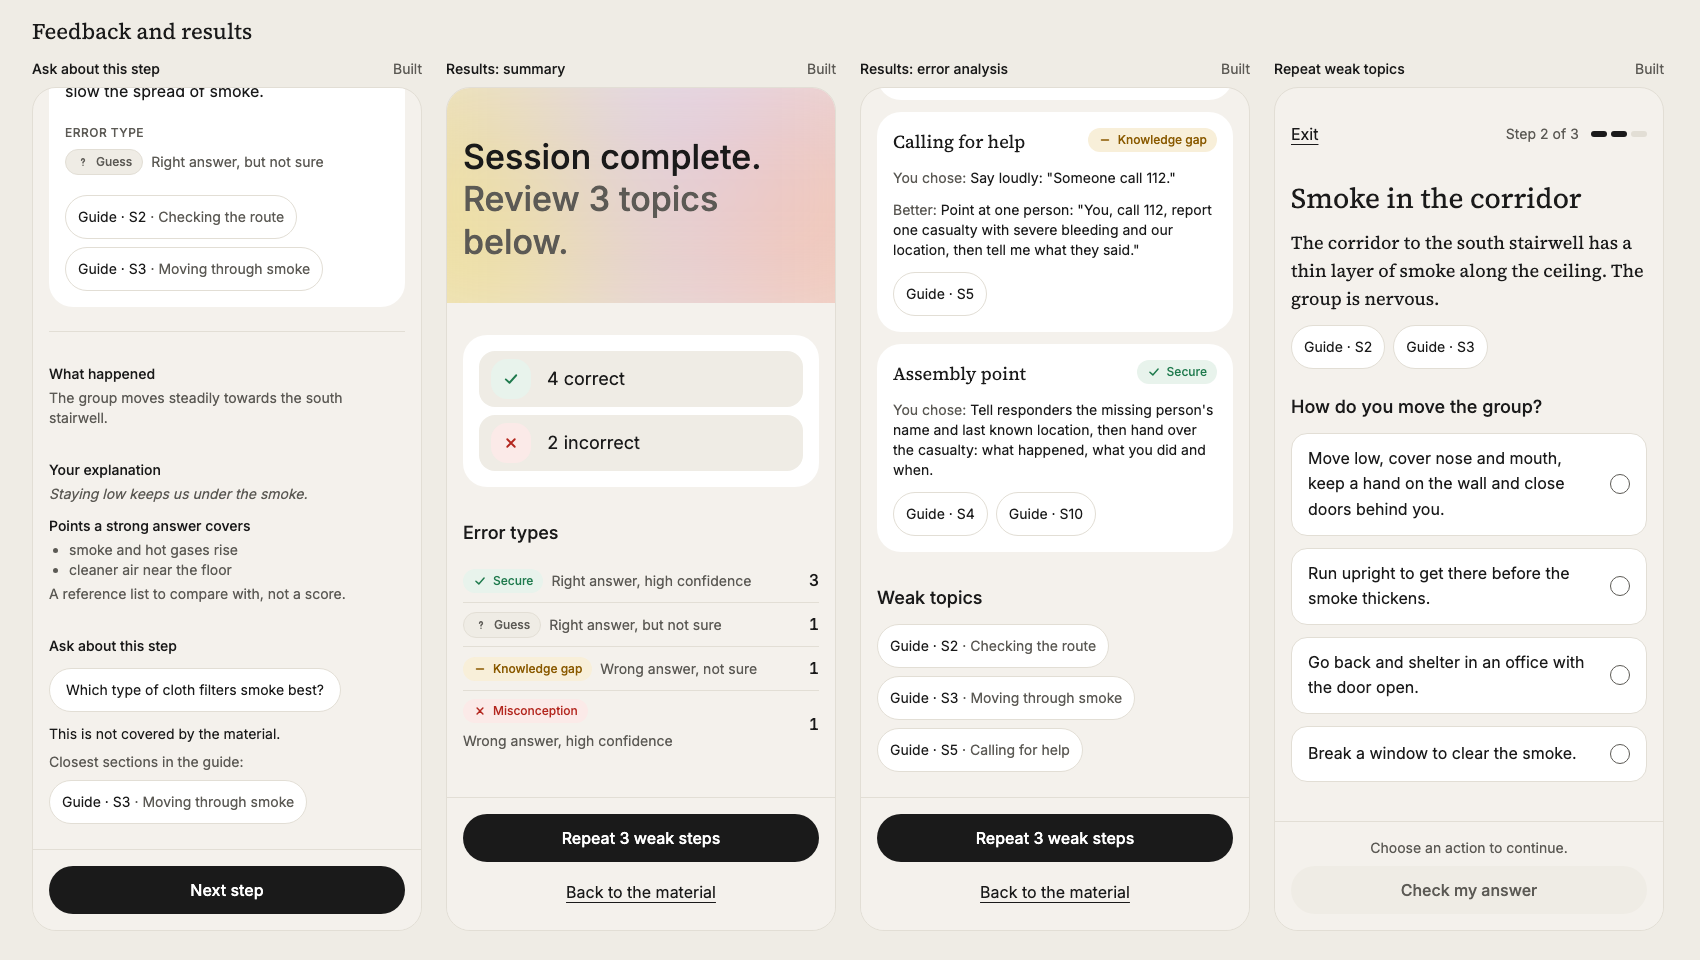
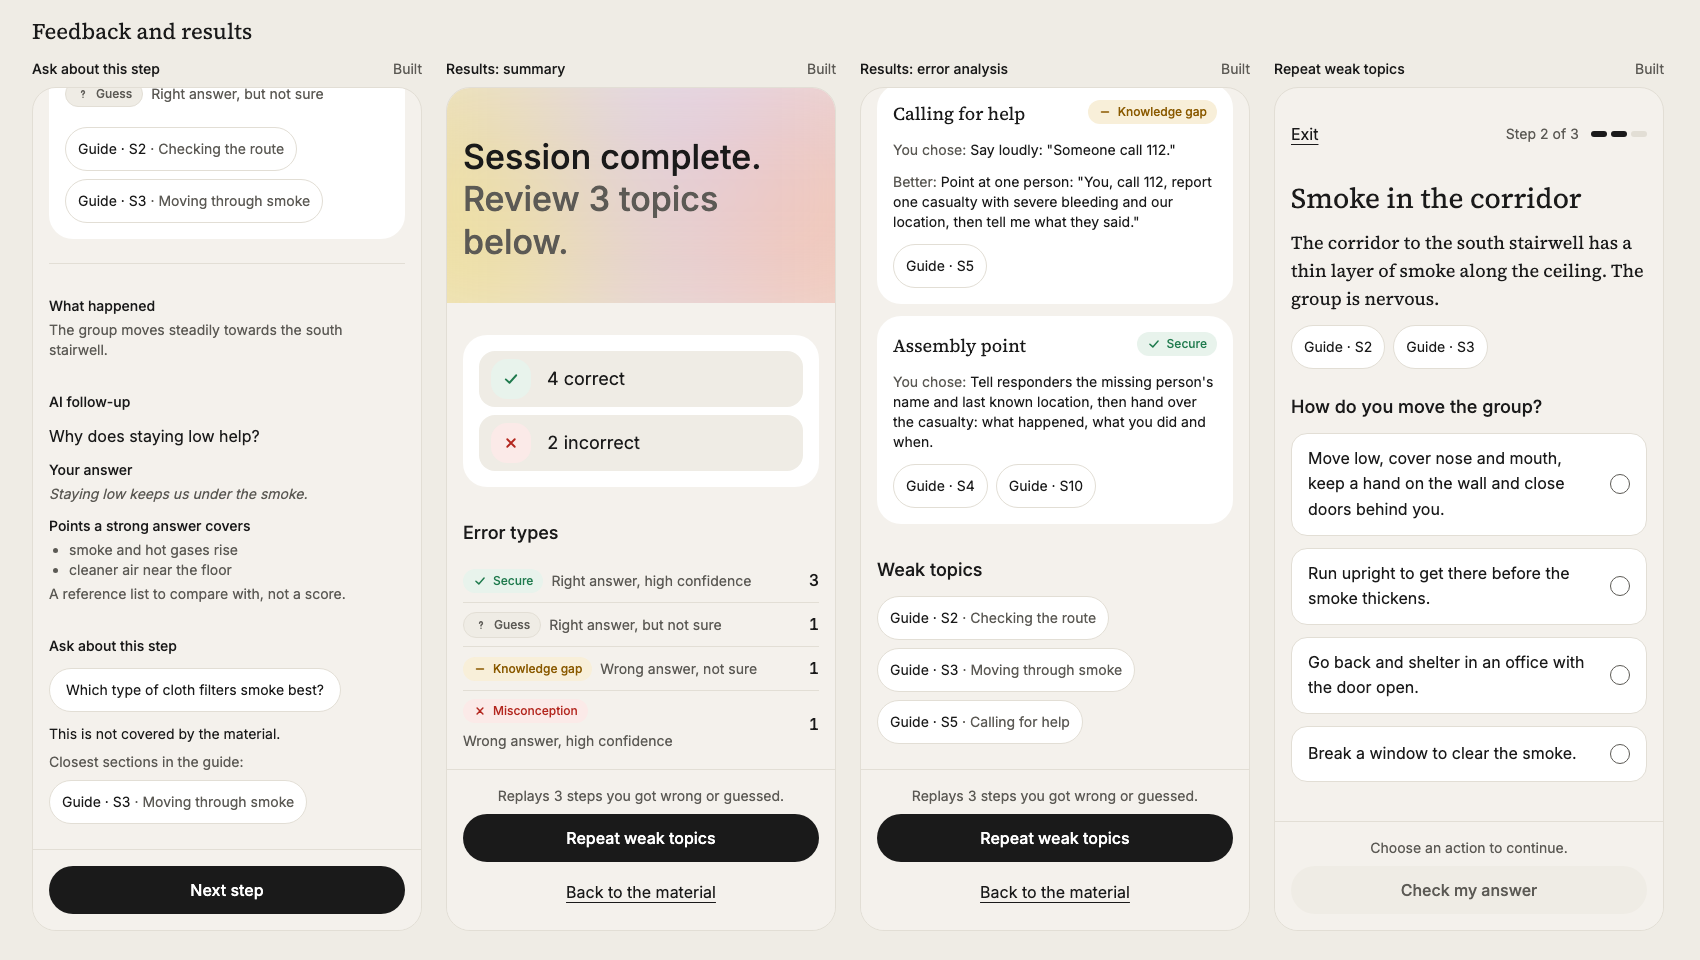
feat: show the scripted AI follow-up in feedback and a repeat weak topics action
Adds phone-width screenshots of the materials list, decision step,
feedback and results.

diff --git a/components/FeedbackView/FeedbackView.tsx b/components/FeedbackView/FeedbackView.tsx
@@ -89,13 +89,17 @@ export function FeedbackView({
           <h2 className="font-medium text-text">What happened</h2>
           <p>{feedback.chosen.consequence}</p>
         </section>
-        <section className="flex flex-col gap-3">
+        <section aria-labelledby="follow-up-title" className="flex flex-col gap-3">
+          <h2 id="follow-up-title" className="font-medium text-text">
+            AI follow-up
+          </h2>
+          <p className="text-base text-text">{feedback.followUp}</p>
           <div className="flex flex-col gap-1">
-            <h2 className="font-medium text-text">Your explanation</h2>
+            <h3 className="font-medium text-text">Your answer</h3>
             <p className="italic">{explanation}</p>
           </div>
           <div className="flex flex-col gap-1">
-            <h2 className="font-medium text-text">Points a strong answer covers</h2>
+            <h3 className="font-medium text-text">Points a strong answer covers</h3>
             <ul className="list-disc pl-5">
               {feedback.keyBeats.map((beat) => (
                 <li key={beat}>{beat}</li>

diff --git a/components/ResultsView/ResultsView.tsx b/components/ResultsView/ResultsView.tsx
@@ -185,9 +185,11 @@ export function ResultsView({
       <ActionBar>
         {repeatIds.length > 0 ? (
           <>
-            <Button onClick={() => onRepeat(repeatIds)}>
-              Repeat {repeatIds.length} weak {repeatIds.length === 1 ? "step" : "steps"}
-            </Button>
+            <p className="text-center text-sm text-text-secondary">
+              Replays <span className="tabular-nums">{repeatIds.length}</span>{" "}
+              {repeatIds.length === 1 ? "step" : "steps"} you got wrong or guessed.
+            </p>
+            <Button onClick={() => onRepeat(repeatIds)}>Repeat weak topics</Button>
             <ButtonLink href="/materials/evacuation-guide" variant="text">
               Back to the material
             </ButtonLink>

diff --git a/lib/feedback.ts b/lib/feedback.ts
@@ -8,6 +8,7 @@ export type Feedback = {
   best: Option;
   errorType: ErrorType;
   sources: string[];
+  followUp: string;
   keyBeats: string[];
   suggestedQuestion?: SuggestedQuestion;
 };
@@ -29,6 +30,7 @@ export const simulatedFeedback: FeedbackProvider = {
       best,
       errorType: errorType(chosen.correct, answer.confidence),
       sources: step.sources,
+      followUp: step.followUp,
       keyBeats: step.explanationKeyBeats,
       suggestedQuestion: step.suggestedQuestion,
     };

diff --git a/DESIGN.md b/DESIGN.md
@@ -108,7 +108,7 @@ Every component needs: default, hover, focus-visible, active, disabled. Inputs a
 - Practice step (progressive reveal): options first. After an option is chosen, show the confidence selector. After a confidence level is chosen, show the explanation field. Submit is enabled only when all three are filled. Once submitted, everything locks.
 - Feedback block: two-tone headline, then verdict (icon + label) → your answer vs the correct answer → why → error type (knowledge gap / misconception / guess / secure) → source link.
   - Primary block (white card): verdict, your answer vs correct, why and error type.
-  - Secondary blocks below, separated by 32px: consequence, then "Points a strong answer covers" next to the user's own sentence, then the AI follow-up. Secondary blocks use the 14 secondary scale in `--text-secondary`. Hierarchy comes from type and spacing, not colour.
+  - Secondary blocks below, separated by 32px: consequence ("What happened"), then the AI follow-up as a tutor message: the step's follow-up question, the user's own sentence under "Your answer", then "Points a strong answer covers". Secondary blocks use the 14 secondary scale in `--text-secondary`. Hierarchy comes from type and spacing, not colour.
   - The user's explanation is never graded. Show it unchanged next to the key beats and label the key beats as a reference list, not a score.
   - Not covered by the material: under the smoke step's feedback, an "Ask about this step" block with one tappable suggested question that the guide does not answer. The trainee taps it; the AI never asks it on its own. The answer says "This is not covered by the material." and then "Closest sections in the guide:" with source chips. Neutral style, no warning colour.
 - Explanation field: multi-line text input, 3 rows, 16px radius, label is the step's follow-up question, optional counter in 14 `--text-secondary`. States: default, hover, focus-visible, disabled (locked after submit), error. Error: 1px `--wrong` border, an icon and a text message below (for example "Write one sentence before you submit."). Never colour alone.
@@ -128,7 +128,7 @@ Every component needs: default, hover, focus-visible, active, disabled. Inputs a
 - Suggested question: a white pill with 1px `--border`, the question text in 14 `--text`, at least 44px high. Once tapped it shows the answer below it as a tutor message and cannot be tapped again.
 - Coming next: placeholder for a navigation section that is not built yet. Page title (serif), one line "This section is coming in a later version of the prototype." and a secondary button "Go to Materials". Bottom navigation stays visible. Removed section by section as the real screens land.
 - Footer note: one line at the end of the content on every screen, above the bottom navigation or action bar, in 14 `--text-secondary`: "AI behavior is simulated for this prototype. All feedback comes from the source guide."
-- Session results: two-tone headline on a gradient header → result rows (correct, wrong) → error-type breakdown (four rows, badge + count) → situation outcome (time lost, smoke level, casualty stability as plain label/value rows, no charts) → error analysis per step with source chips → weak topics → primary action "Repeat weak topics", secondary "Back to Home".
+- Session results: two-tone headline on a gradient header → result rows (correct, wrong) → error-type breakdown (four rows, badge + count) → situation outcome (time lost, smoke level, casualty stability as plain label/value rows, no charts) → error analysis per step with source chips → weak topics → primary action "Repeat weak topics" with the number of steps it replays in one line above it, text action "Back to the material" (Home is not built yet).
 - Tutor message: plain text, source chips inline, no avatar character.
 - Progress: segmented dots or a thin bar with a numeric label. No hatched or decorative bars.
 - Dropzone: dashed border on `--surface-muted`, 16px radius, one line of instruction, a "Choose a PDF" secondary button.
